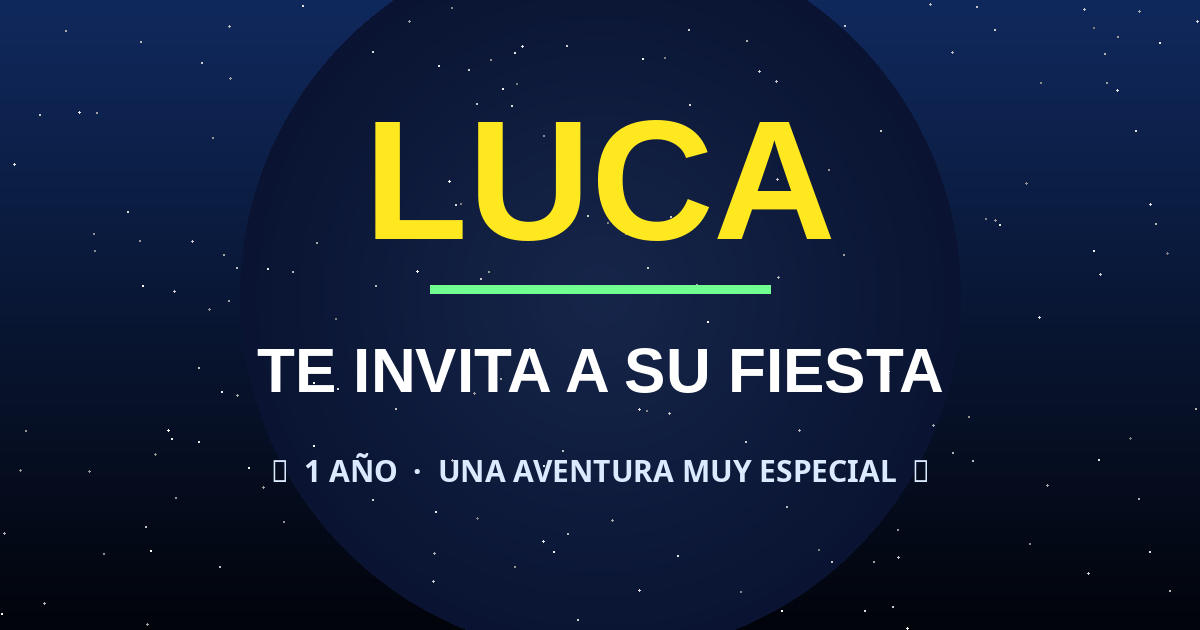
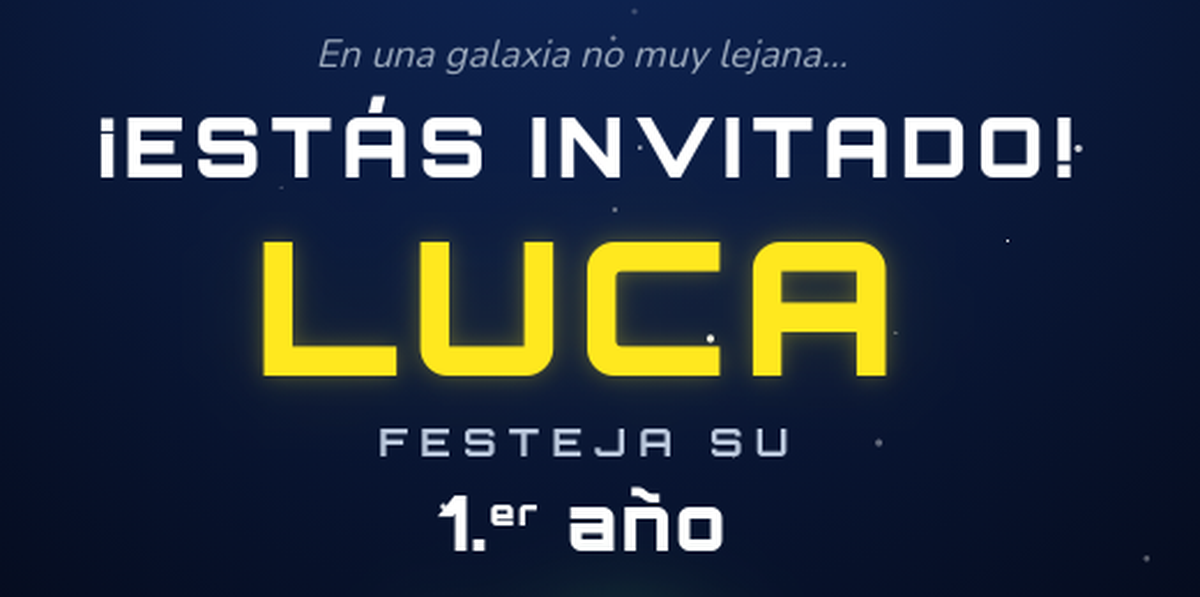
feat: use user-provided preview image

diff --git a/index.html b/index.html
@@ -24,7 +24,7 @@
     content="https://lucainvitacion.vercel.app/og-image.png"
   />
   <meta property="og:image:width" content="1200" />
-  <meta property="og:image:height" content="630" />
+  <meta property="og:image:height" content="597" />
   <meta
     property="og:image:alt"
     content="LUCA TE INVITA A SU FIESTA"
